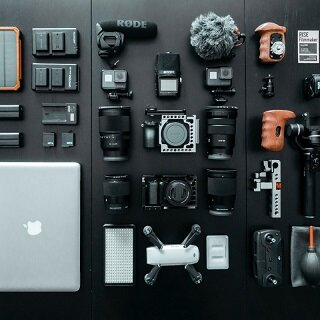
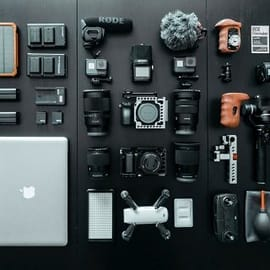
compresser les fichiers images

diff --git a/index.html b/index.html
@@ -5,7 +5,7 @@
     <meta charset="utf-8">
 	<meta name="Content-Language" content="fr">
 	<!--Ajouter-->
-	<meta http-equiv="X-UA-Compatible" content="IE=edge">
+	<meta http-equiv="X-UA-Compatible" content="IE=edge" />
 	<!--Ajouter les keywords-->
     <meta name="keywords" content="La chouette agence, Entreprise web design Lyon, la meilleure agence  à Lyon,graphistes talentueux, créer un site de A à Z , web design, agence web à Lyon, Lyonnais, créer des sites beau et bien structurés, site internet, création site web, illustrations, stratégie web, design de site web, site web, agence web">
 	<!--Ajouter la descriptions-->
@@ -26,6 +26,7 @@
 	<script src="./js/blocs.min.js" defer></script>
 	<script src="./js/jquery.touchSwipe.min.js" defer></script>
 	<script src="./js/gmaps.min.js" defer></script>
+	<noscript>Your browser does not support JavaScript!</noscript>
 	<!--Ajouter le titre-->
     <title>La chouette agence | Entreprise web design Lyon | Pour créer des sites A à Z beau et bien structurés</title>    
 	<!-- Analytics -->

diff --git a/contact.html b/contact.html
@@ -5,7 +5,7 @@
 	<meta charset="UTF-8">
 	<meta name="Content-Language" content="fr">
 	<!--Ajouter-->
-	<meta http-equiv="X-UA-Compatible" content="IE=edge">
+	<meta http-equiv="X-UA-Compatible" content="IE=edge" />
 	<!--Ajouter les keywords-->
 	<meta name="keywords" content="La chouette agence, Entreprise web design Lyon, la meilleure agence  à Lyon, contactez nous, Web design, agence web, site internet, création site web, illustrations, stratégie web, Lyon, Rhône-Alpes">
     <!--Ajouter la descriptions-->
@@ -26,6 +26,7 @@
 	<script src="./js/blocs.min.js" defer></script>
 	<script src="./js/jqBootstrapValidation.min.js" defer></script>
 	<script src="./js/formHandler.min.js" defer></script>
+	<noscript>Your browser does not support JavaScript!</noscript>
     <title>Contact | La Chouette Agence | Entreprise web design Lyon</title>   
 	<!-- Analytics -->
 	<!-- Global site tag (gtag.js) - Google Analytics -->
